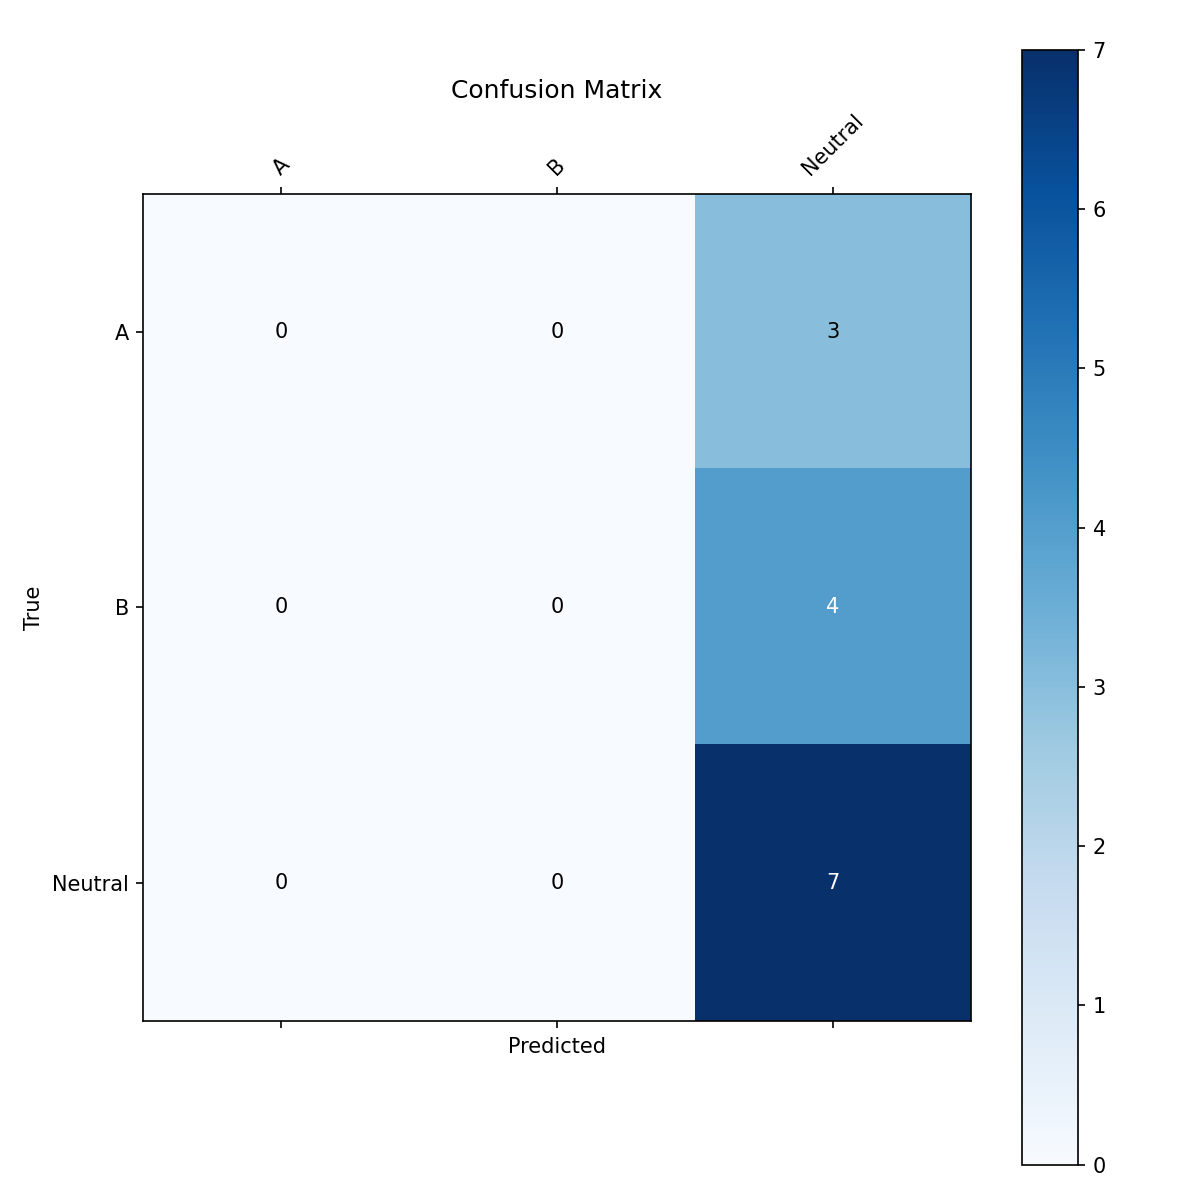
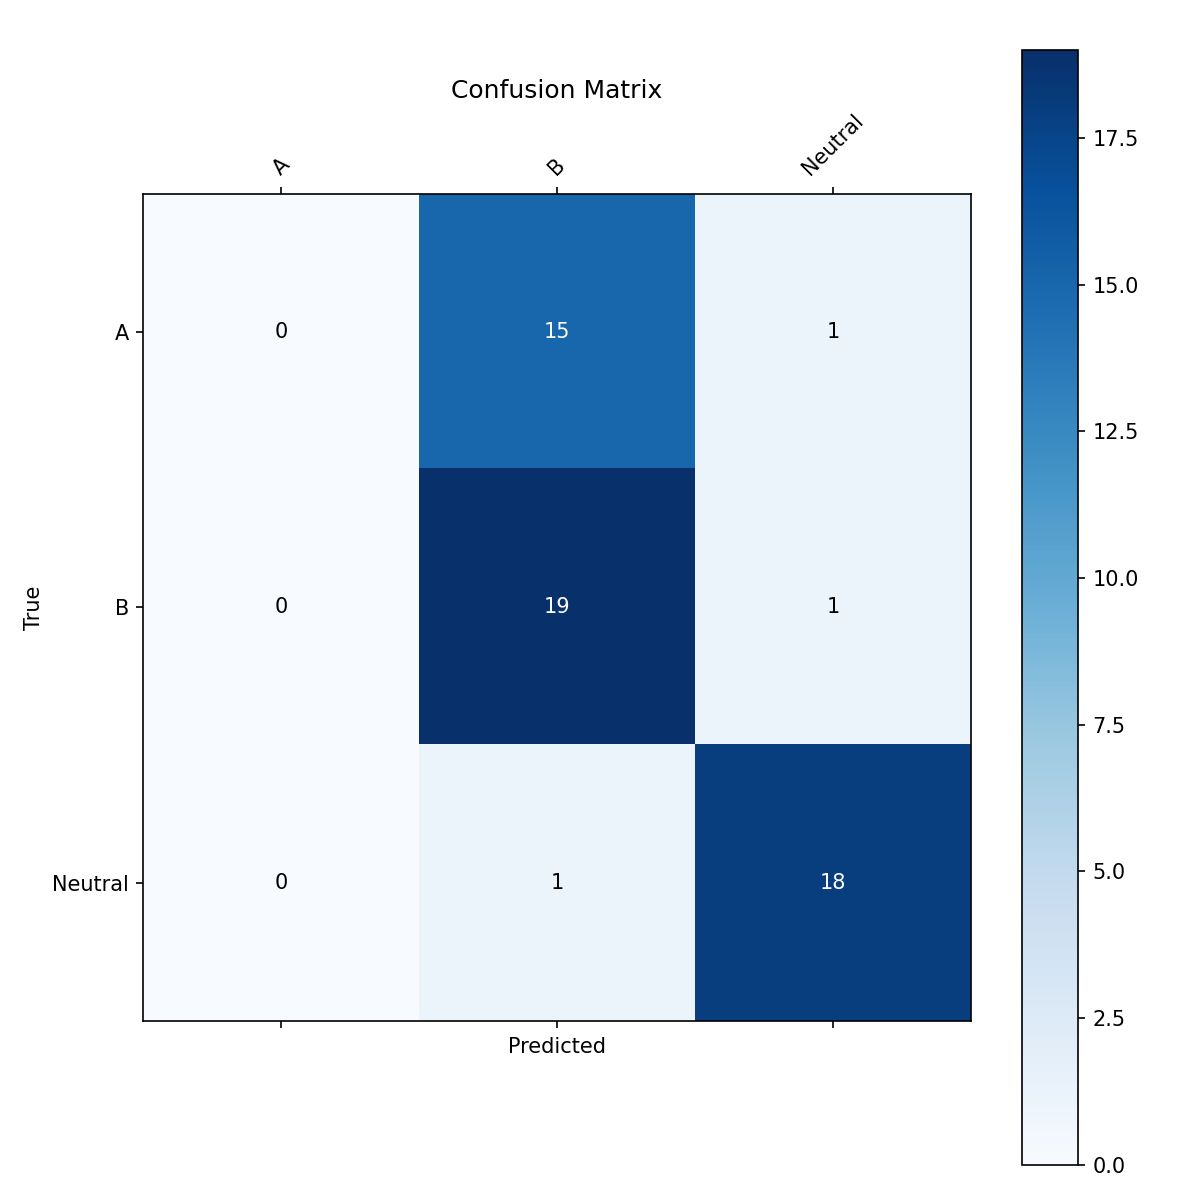
Add live training plot and update training config
Introduced a LivePlotCallback to visualize training and validation metrics in real time during model training. Updated config.yaml to increase epochs, adjust test split, and fine-tune early stopping, learning rate, and dropout settings for improved model performance. main.py now prints prediction confidence. Updated model weights and training artifacts.

diff --git a/model/train.py b/model/train.py
@@ -21,6 +21,59 @@ from config.loader import ConfigLoader
 from model.data_loader import DataLoader
 from model.model import build_model, get_callbacks
 from utils.logger import setup_logger
+from tensorflow.keras.callbacks import Callback
+
+
+class LivePlotCallback(Callback):
+    """
+    Keras callback for live plotting of training metrics.
+    """
+    def on_train_begin(self, logs=None):
+        plt.ion()  # Turn on interactive mode
+        self.fig, (self.ax1, self.ax2) = plt.subplots(1, 2, figsize=(12, 4))
+        self.epochs = []
+        self.acc = []
+        self.val_acc = []
+        self.loss = []
+        self.val_loss = []
+        
+        self.fig.suptitle('SignLens Live Training Monitor', fontsize=14)
+        plt.tight_layout()
+
+    def on_epoch_end(self, epoch, logs=None):
+        self.epochs.append(epoch + 1)
+        self.acc.append(logs.get('categorical_accuracy'))
+        self.val_acc.append(logs.get('val_categorical_accuracy'))
+        self.loss.append(logs.get('loss'))
+        self.val_loss.append(logs.get('val_loss'))
+
+        # Clear axes
+        self.ax1.clear()
+        self.ax2.clear()
+
+        # Accuracy Plot
+        self.ax1.plot(self.epochs, self.acc, label='Train Acc', color='#1f77b4')
+        self.ax1.plot(self.epochs, self.val_acc, label='Val Acc', color='#ff7f0e')
+        self.ax1.set_title('Accuracy')
+        self.ax1.set_xlabel('Epoch')
+        self.ax1.set_ylabel('Score')
+        self.ax1.legend(loc='lower right')
+        self.ax1.grid(True, alpha=0.3)
+
+        # Loss Plot
+        self.ax2.plot(self.epochs, self.loss, label='Train Loss', color='#d62728')
+        self.ax2.plot(self.epochs, self.val_loss, label='Val Loss', color='#9467bd')
+        self.ax2.set_title('Loss')
+        self.ax2.set_xlabel('Epoch')
+        self.ax2.set_ylabel('Value')
+        self.ax2.legend(loc='upper right')
+        self.ax2.grid(True, alpha=0.3)
+
+        plt.pause(0.1)  # Brief pause to allow update
+
+    def on_train_end(self, logs=None):
+        plt.ioff()  # Turn off interactive mode
+        plt.show() # Keep window open at end
 
 
 def plot_history(history, save_path: str):
@@ -158,6 +211,7 @@ def train():
     
     # Get callbacks (reads patience, lr settings from config)
     callbacks = get_callbacks(config)
+    callbacks.append(LivePlotCallback())
     
     history = model.fit(
         X_train, y_train,

diff --git a/main.py b/main.py
@@ -132,8 +132,13 @@ def main():
             # Prediction logic (uses interval from config)
             if len(sequence) == sequence_length and frame_num % prediction_interval == 0:
                 res = predictor.model.predict(np.expand_dims(sequence, axis=0), verbose=0)[0]
+                confidence = res[np.argmax(res)]
                 predicted_action = actions[np.argmax(res)]
-                logger.debug(f"Predicted: {predicted_action}")
+                
+                # Print every prediction (as requested)
+                print(f"Prediction: {predicted_action:<10} | Confidence: {confidence:.4f}")
+                
+                logger.debug(f"Predicted: {predicted_action} ({confidence:.2f})")
                 predictions.append(np.argmax(res))
                 
                 # Stability check